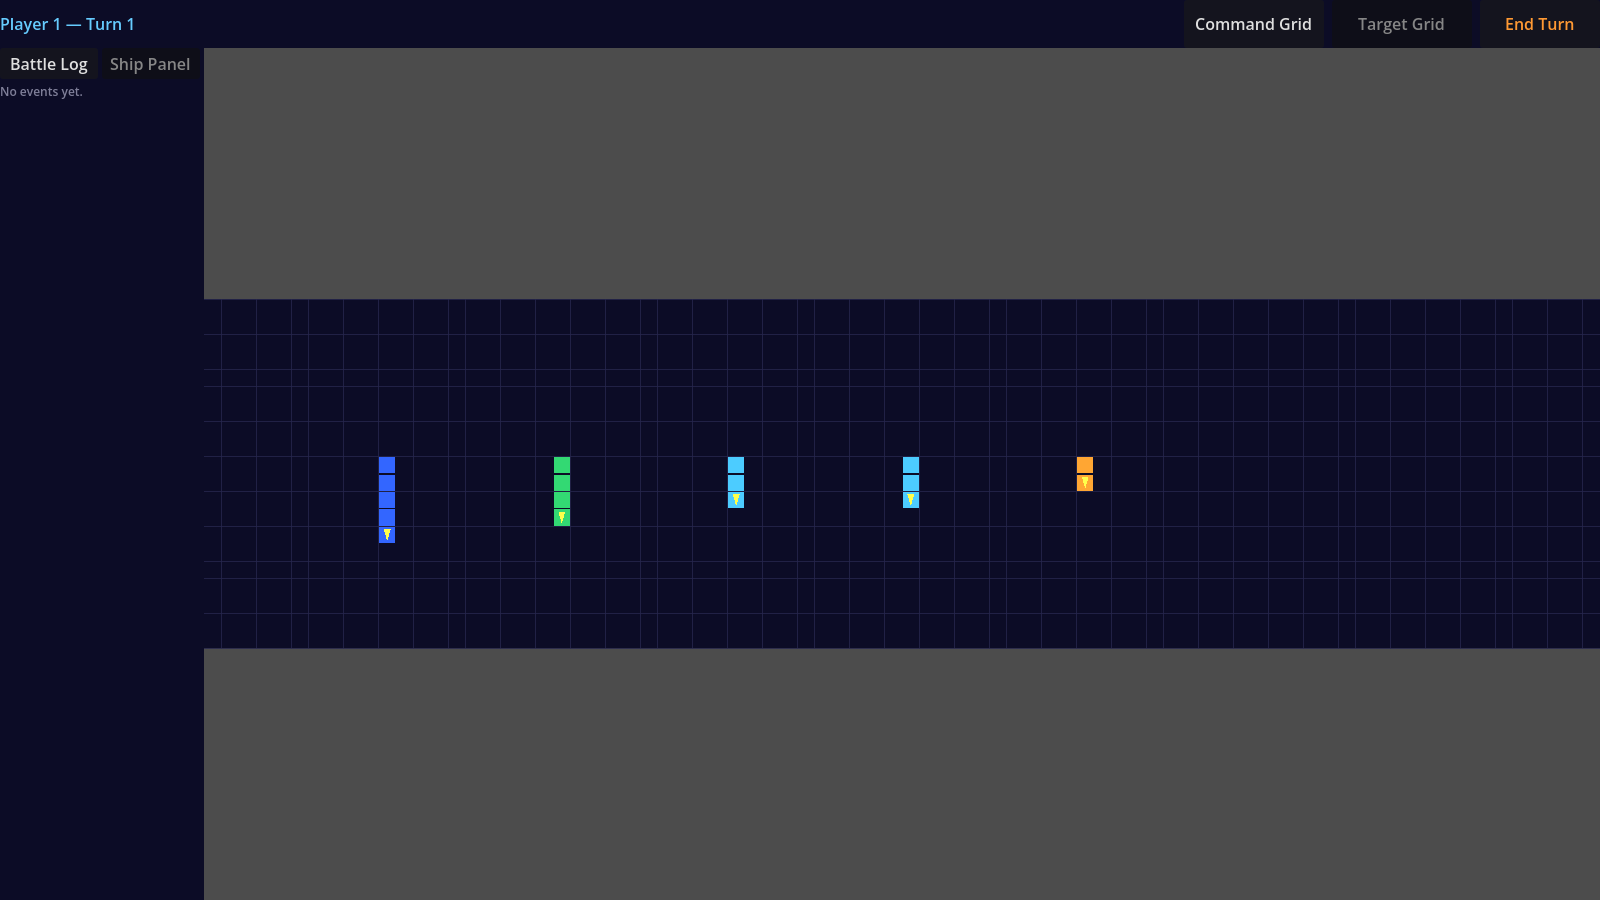
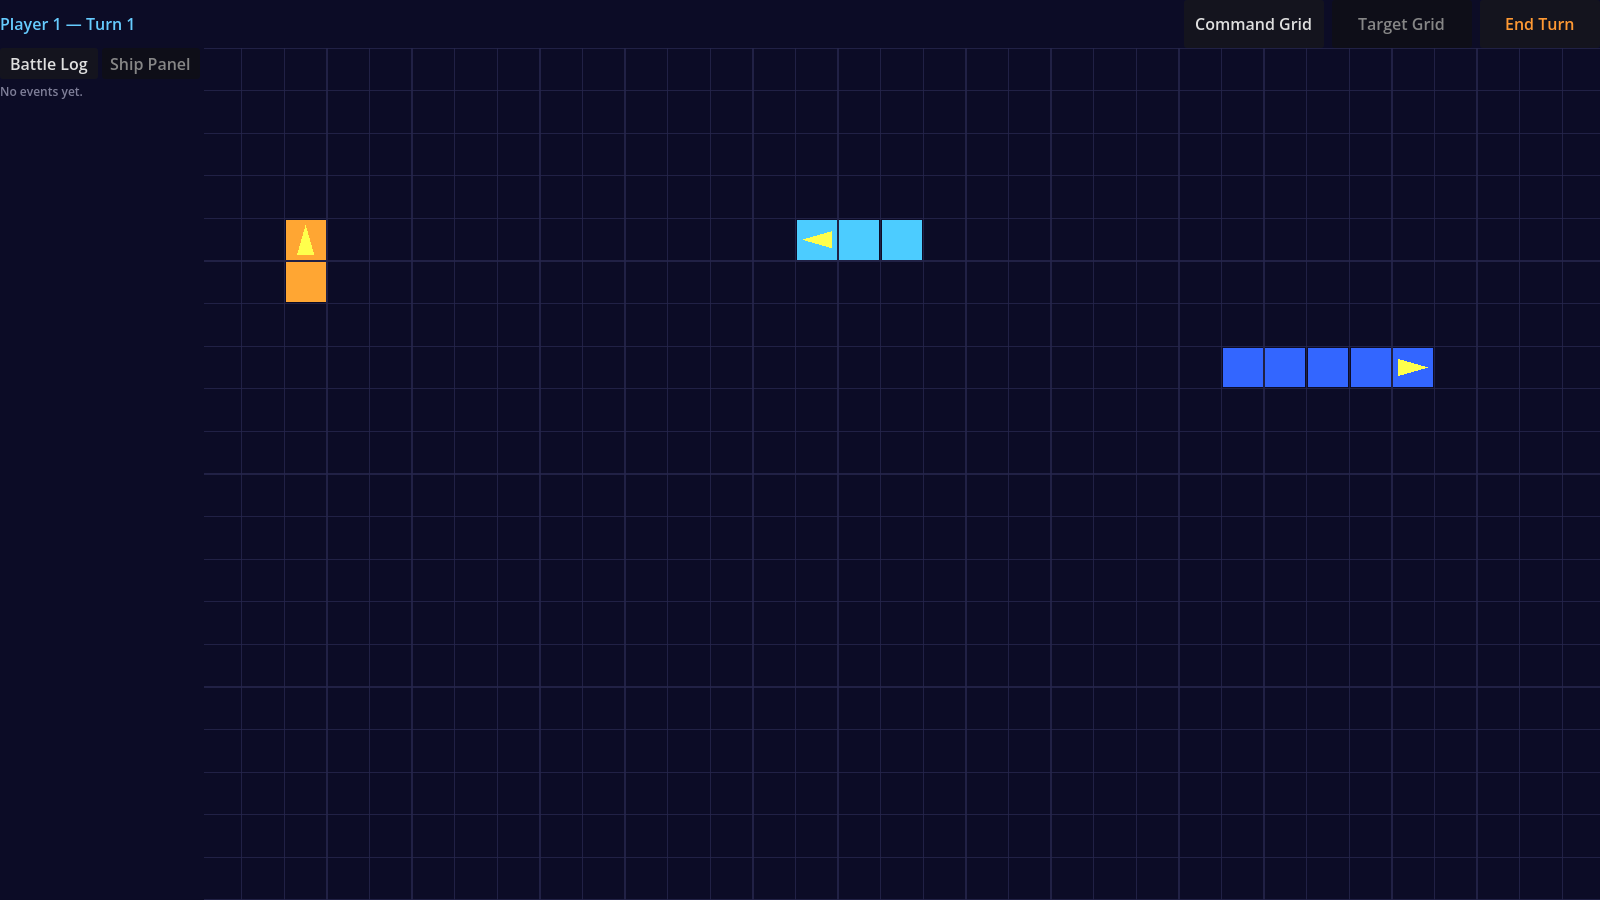
Complete step 12: HTML5 export, itch.io deploy, and Devpost submission

diff --git a/docs/devpost-submission.md b/docs/devpost-submission.md
@@ -1,0 +1,266 @@
+# Devpost Submission — Battlestations: Nebula
+
+Pasteable source for the Devpost submission form, organized by form page.
+
+- **Page 1: Project overview** — name, pitch, images, links, story.
+- **Page 2: Project details** — story (same), built with, try-it links, gallery, video.
+- **Page 3: Additional info** — Learning Hackathon feedback form.
+
+Fields you should personalize before pasting are tagged **[YOUR CALL]**.
+
+---
+
+# Project name
+
+```
+Battlestations: Nebula
+```
+
+# Elevator pitch
+
+```
+Hot-seat space combat tribute to my dad's 1980s Turbo Pascal game. Hide five ships in the nebula, fire probes to pull enemies out of fog, then shoot lasers and missiles before your intel goes stale.
+```
+
+198 characters, within Devpost's 200 limit.
+
+# Tagline (itch.io reference — not a Devpost field)
+
+```
+Hunt blind. Probe twice. Fire once.
+```
+
+---
+
+# Page 2 — Project details
+
+## Project story
+
+Paste the entire markdown block below into the Project Story field. Devpost's markdown editor supports H2, bullets, code spans, and bold — everything below renders correctly.
+
+```markdown
+## Inspiration
+
+Forty-odd years ago, my dad wrote a hidden-fleet space combat game in Turbo Pascal on hardware that now props up somebody's garage table. Two players, one floppy disk, a green CRT, and enough quiet tension to remember decades after the floppy rotted. This hackathon gave me a reason to exhume it. Same bones, new century, new nebula.
+
+## What it does
+
+Battlestations: Nebula is a turn-based, hot-seat space combat game for two players sharing one browser. You each hide a fleet of five ships on an 80-by-20 grid, then take turns poking the dark with probes and firing lasers and missiles at coordinates you hope are still accurate.
+
+- Five fixed ships per side: a Battleship, a Probe Ship, two Destroyers, and a Cruiser.
+- One of four actions per ship per turn: Probe, Shoot Laser, Launch Missile, or Move.
+- Energy allocation sliders per ship split your reactor between shield regen and laser power. Shields fill first when energy is tight.
+- Probes illuminate a 4-by-4 box (6-by-6 from a Probe Ship) of the nebula and reveal any enemy ships inside. The lights go out after two of your turns. What stays is a ghost marker.
+- Hidden-information integrity lives or dies on the handoff screen, which reports hit counts only. No ship names, no positions, no damage numbers.
+
+## How I built it
+
+One hundred percent spec-driven, start to finish. The workflow ran scope → PRD → spec → checklist → build → iterate, all captured in committed docs:
+
+- `docs/scope.md` sets what's in, what's out, and why.
+- `docs/prd.md` locks product behavior, screen flow, and combat math.
+- `docs/spec.md` defines technical architecture, data models, and file layout.
+- `docs/checklist.md` is twelve atomic build items, each referencing the spec section it implements, with explicit acceptance criteria. Two iterations layered on top for audio and submission polish.
+- `process-notes.md` captured decisions, pushback, and trade-offs live through every phase.
+
+Stack is Godot 4.6.2 with GDScript, statically typed throughout. HTML5 export runs in-browser via itch.io with no download. Each grid uses a SubViewport + Camera2D for native zoom and pan, and fog-of-war is a sparse Dictionary keyed on `Vector2i` to keep lookup O(1) across the 1,600-cell board.
+
+## Challenges I ran into
+
+- **Ghost-ship offset during fleet placement.** The placement scene's ghost ship tracked cursor motion wrong through four fix rounds. Root cause was hand-rolled container-to-viewport math that ignored Godot's internal SubViewportContainer transforms. The fix was replacing the math with `get_local_mouse_position()` on the renderer node. The engine already knew the answer. I was asking the wrong question.
+- **Probe fade state machine.** Probe intel degrades over your subsequent turns and has to survive overlap, ship movement, and damage updates. Getting the sparse Dictionary to converge on correct state took three fixes: probe records not updating when a ship moved into or out of a probe, shield/armor values going stale after a hit, and overlap not resetting prior ghost markers cleanly.
+- **Move cost counted rotation as displacement.** Rotating a ship shifted its origin cell, and the cost calculator treated that shift as movement. Fixed by anchoring cost to pivot points instead of origin.
+- **Audio that sounds like space, not like a fan project.** First pass synthesized sounds with numpy. They sounded fake. Scrapped and pivoted to Kenney CC0 packs with ffmpeg fade-ins to smooth the onset. Better audio in an hour than numpy produced in four.
+
+## Accomplishments I'm proud of
+
+- The probe fade mechanic is load-bearing. Stale intel costs you. The ghost marker is worse than no intel because it feels like information.
+- The nebula is a surface you read, not a backdrop you ignore. Probes illuminate the painted cloud instead of replacing it. Zoom out and the whole 80-by-20 battlefield reads like weather.
+- Hidden-information integrity stayed honest end to end. You never see the opponent's grid. The handoff screen reports hit counts and nothing else.
+- Every document in the project supports the next one. The PRD's combat math became the spec's `resolve_laser` became the checklist's item 9 became working code. No phase was busywork.
+
+## What I learned
+
+- **Front-loading specs is the payoff.** I came in with GitHub epic/story experience and thought I already specified work deeply. This process made the gap obvious. The spec's data model section survived untouched through the whole build because it got argued over before a line of code was written.
+- **Voice locked early prevents rewrites later.** The Welcome tutorial page voice got approved before any marketing copy or itch.io description was drafted. Everything downstream cribbed from that anchor and stayed consistent.
+- **The checklist is a living document, not a plan.** When items broke or surfaced gaps, the right move was to revise the checklist, not push through. Mid-iteration additions (the color scheme doc, the Cowork handoff brief) slotted in cleanly because the structure was built to adapt.
+
+## What's next
+
+`docs/backlog.md` holds the post-hackathon pile. Ranked roughly by impact: a randomize-fleet button for quick games, miss indicators on the Target Grid so you can see where you've already fired, instant-win on the killing shot, and a historical-probe overlay showing cells you've previously scanned. Bigger structural ideas (non-linear ship shapes, critical hit zones, partial probe reveal) each want their own design pass before any code lands.
+
+## A note on the process
+
+The plugin workflow was the best part of this hackathon for me. I'm going to keep using it to iterate on Battlestations: Nebula after submission. The backlog is long and the process makes planning each next pass easier than the last one. Thanks for running this.
+```
+
+## Built with
+
+Add these one tag at a time. Devpost autocompletes known tags — pick exact matches when offered. If any tag is rejected as unknown, drop it and move on.
+
+```
+godot
+gdscript
+html5
+webassembly
+itch.io
+butler
+github
+git
+claude
+python
+ffmpeg
+grammarly
+```
+
+Optional adds if you want to lean harder into the AI-workflow angle (fair for a Learning Hackathon on Spec Driven Development):
+
+```
+claude-cowork
+hackathon-in-a-plugin
+kenney-assets
+spec-driven-development
+```
+
+Skip unless you want them: `numpy` (only in scrapped audio-synth tooling), `markdown` (everything uses it, low signal).
+
+## "Try it out" links
+
+Add both. Devpost labels them however you type them.
+
+| Label | URL |
+|---|---|
+| Play the game | `https://zabuuq.itch.io/battlestations-nebula` |
+| Source code | `https://github.com/zabuuq/Devpost-Hackathon` |
+
+## Image gallery
+
+**Devpost minimum is 5 images.** All listed files are well under Devpost's 2 MB per-image limit. Upload in this order — first image becomes the thumbnail.
+
+From `assets/screenshots/`:
+
+1. `11_probe_closeup.png` — **hero shot**, probe illumination. Thumbnail.
+2. `04_fleet_placement_full.png` — fleet placement with all five ships placed.
+3. `07_probe_revealed.png` — enemy ship revealed through an active probe.
+4. `08_ship_panel_sliders.png` — ship panel with energy sliders.
+5. `12_battle_log_detail.png` — battle log entries at three detail tiers.
+6. `13_command_overview.png` — zoomed-out command grid overview.
+
+Optional 7th–8th if Devpost lets you keep going:
+
+7. `14_destroyed_ships.png` — wreckage markers after a kill.
+8. `06_probe_aiming.png` — probe targeting reticule.
+
+**Skip:** `09_move_preview.png` is only 2.8 KB on disk — probably a degenerate capture. Worth re-running `godot --path . -- --screenshot` before using it, or just leaving it out.
+
+## Video demo link
+
+**[YOUR CALL]** — none exists. Options:
+
+- **Leave blank.** Devpost doesn't require video for this hackathon based on the form layout.
+- **Record one.** A 60-second walkthrough (splash → placement → probe → fire → win) in OBS or Loom would strengthen the submission, but not a blocker.
+
+---
+
+# Page 3 — Additional info (Learning Hackathon feedback)
+
+These are the hackathon organizers' feedback fields. Answers drafted from `process-notes.md`. **Edit anything that doesn't match your actual take** — these are my reconstruction, not your voice.
+
+## Upload a file
+
+**Skip.** The submission is web-hosted via itch.io. No standalone executable to attach.
+
+## How far through the process did you get?
+
+**[YOUR CALL]** — pick the fullest option in the dropdown. Likely something like "Complete build and iteration" or "Shipped a playable submission." You went all the way through scope → PRD → spec → checklist → build → iterate × 2 → submit.
+
+## How many hours did the full experience take?
+
+**[YOUR CALL]** — I don't have ground truth on this. Rough estimate from scope of work: 40–60 hours across about three weeks (early April through April 23).
+
+```
+Approximately 50 hours across three weeks, spread across planning, build, two iterations, and submission prep.
+```
+
+Edit the number to match your actual time.
+
+## Upload your files to the storage software and share them here (eg. Google Drive)
+
+```
+https://github.com/zabuuq/Devpost-Hackathon
+```
+
+The full project source, docs, and process notes are all in the GitHub repo. No separate Drive upload needed.
+
+## How would you rate the overall experience?
+
+**[YOUR CALL]** — pick the rating in the dropdown that matches your honest take. Based on tone of the process notes, you sound positive. Don't inflate to please the organizers; they want a real signal.
+
+## Which parts of the process were most valuable to you?
+
+```
+The spec phase did the heaviest lifting. Specifically the per-cell fog-of-war architecture discussion: I started with a per-probe-area model, the agent pushed back, and working through a concrete overlap scenario surfaced that a sparse Dictionary keyed on grid coordinates was the correct model. That one decision survived every build item that touched fog logic, with zero rework. The wrong choice would have cost compounding interest at move, probe, and hit time.
+
+Voice-locking before writing marketing copy was the second highest-value move. The iterate round for submission readiness asked me to approve the first tutorial page's voice before anything else got drafted. Every downstream piece — README, itch.io description, Devpost story, in-game pages 2 through 9 — cribbed from that anchor. Zero rewrites for tone consistency.
+
+Third: the deepening rounds at the end of each planning command. The prompt "want another round of questions before we generate the document?" made me sharpen things I would have shipped thin otherwise. Rotation pivot points, slider priority rules, probe overlap behavior — all surfaced during deepening rounds, none would have been in the first-pass doc.
+```
+
+## Where did you get stuck or what felt like a waste of time?
+
+```
+Biggest stuck point was a coordinate-math bug in fleet placement. My ghost ship tracked the cursor with an offset I could not isolate. I went through four rounds of fixes using progressively more elaborate manual transforms between SubViewportContainer, Viewport, and Camera2D spaces. The fix was one line using Godot's built-in get_local_mouse_position(). The engine already solved it. I was asking the wrong question for a day.
+
+Second: audio synthesis from scratch. I spent an iteration running numpy-generated waveforms through ffmpeg. The results sounded fake in a way I could not talk myself out of. Pivoted to Kenney CC0 packs and had usable audio in under an hour. Retrospectively, curated assets first, custom synthesis post-hackathon.
+
+Nothing in the SDD workflow itself felt like waste. The closest was the first few interview questions during /scope — the answers were things I already had ready, so it felt slow. The deepening rounds more than paid that back by surfacing decisions I had not actually made yet.
+```
+
+## Did this experience change how you approach building with a coding agent?
+
+```
+Yes. Before this, my process was epic-and-story in GitHub, with AI-assisted ticket breakdown and iterative code. Reasonably structured, but the specs were thin. This workflow made me write down decisions I would have resolved ad hoc during the build: combat damage formulas, slider priority rules, probe expiration, rotation pivots. Each one, written once, held across every downstream artifact.
+
+Concrete change I am taking forward: front-load the spec pass. Old habit was to start ticketing after a one-paragraph scope. New habit is to finish a spec.md before opening the checklist.
+```
+
+## How likely are you to use this kind of workflow in your day to day work?
+
+**[YOUR CALL]** — pick the likelihood that matches. Free-text follow-up below:
+
+```
+I am already planning to use the plugin for the post-submission iteration on this game — the backlog is long and the structure pays for itself across iterations. For day-job work, the scope/PRD/spec chain fits cleanly into the existing GitHub epic workflow: scope.md feeds an epic, PRD sections feed stories, spec.md feeds implementation tickets. The structure does not fight existing tooling, it sharpens it.
+```
+
+## Would you recommend this to a colleague?
+
+**[YOUR CALL]** — check the box if yes.
+
+## What would you change about this experience?
+
+```
+Two suggestions.
+
+First: document the Cowork handoff pattern. I used Claude Cowork for itch.io browser automation in parallel with the build agent (theme update, description upload, screenshot gallery), which worked well, but the workflow was not part of the plugin. I invented the pattern on the fly — brief files under docs/claude-cowork/, explicit PAUSE comments in the checklist, and a delivered-note handoff from Cowork back to the build agent. That pattern could be a first-class template in the plugin for submissions that involve external dashboard work.
+
+Second: guided-with-gates as a first-class build mode. Autonomous mode worked for most of the build, but the final submission item needed human gates before every external action (butler push, public flip, Devpost submit). I annotated the checklist manually with a HOLD marker and a guided-with-gates note, and the build agent respected it. That pattern could be supported by default for items that touch live services rather than requiring the learner to invent the scaffolding.
+
+Otherwise, strong workflow. Plan is to keep using it.
+```
+
+---
+
+# Final submit checklist
+
+Before you click **Submit**:
+
+- [ ] Page 1 done: name, pitch, thumbnail, links
+- [ ] Page 2 done: story pasted and rendered correctly, built-with tags added, try-it links added, ≥5 screenshots uploaded in order, video left blank or recorded
+- [ ] Page 3 done: all feedback fields filled, your personal rating and hours picked
+- [ ] Preview opened in a new tab — markdown rendered clean, screenshots in right order, links open to the right URLs
+- [ ] itch.io page is **public** (not draft)
+- [ ] GitHub repo is **public** and pushed through `e3f071b`
+
+When all green, submit.
+
+After submit: paste the Devpost submission URL back in chat (pattern is usually `https://devpost.com/software/battlestations-nebula`). I'll do a Playwright read-only pass to verify the public page renders correctly, then close out Gate 7.

diff --git a/process-notes.md b/process-notes.md
@@ -126,6 +126,35 @@ Jason made nearly all architectural decisions when given options. Notable moment
 
 **Issues:** None. No verification yet (checkpoint 3 is after item 9).
 
+### Step 12: HTML5 export, itch.io deploy, and Devpost submission
+
+**Mode:** Guided-with-gates, not autonomous. Item 12's HOLD LIFTED marker on 2026-04-22 explicitly required explicit user confirmation before each external action. Seven gates, all passed:
+
+1. HTML5 export to `export/web/` via `godot --headless --path . --export-release "Web"`.
+2. Local smoke test on `python -m http.server 8000`. Splash → menu → How to Play → Start verified by Jason.
+3. Butler push to `zabuuq/battlestations-nebula:html5`. New build #1632255 (version 3) replaces the April 11 I2-1 build #1608182. 99.14% patch savings — the 37 MB wasm blob was unchanged.
+4. Live-build verification at the secret URL before public flip.
+5. `git push origin main` — pushed e3f071b (I2-11) so the public repo matched the live build.
+6. itch.io page flipped Draft → Public via dashboard.
+7. Devpost submission.
+
+**What was drafted for submission:**
+- `docs/devpost-submission.md` — pasteable source mapping every Devpost form field. Three pages: overview, project details (name, tagline, elevator pitch, project story, built-with tags, try-it links, image gallery, video), and Learning Hackathon feedback (hours, rating, most valuable parts, stuck points, approach change, likelihood of reuse, what to change). Project story rewritten in the Gallows Deadpan voice consistent with the itch.io description and tutorial pages. User-edited tags after generation.
+- Elevator pitch (198 of 200 chars): "Hot-seat space combat tribute to my dad's 1980s Turbo Pascal game. Hide five ships in the nebula, fire probes to pull enemies out of fog, then shoot lasers and missiles before your intel goes stale."
+
+**Screenshot refinements done during item 12:**
+- Shot 12 converted from a full-viewport capture to a 200×540 LeftPanel crop matching shot 08a's dimensions. Now functions as a matched closeup pair with 08a in the Devpost gallery.
+- Shot 13 rewritten to use a seeded-random P1 fleet (SHOT_13_SEED=1337). Camera fills the viewport vertically via `_gameplay_fill_view` (no letterbox gray bands) and pans to the median ship x so the cluster lands in frame. At least three ships visible; the seed constant is the single knob for rerolling.
+
+**Gaps noted:**
+- `docs/claude-cowork/itch-page-setup-delivered.txt` was never written during I2-11 (the requirement wasn't communicated to Cowork). Jason confirmed the theme + description upload succeeded in practice and authorized trusting the I2-11 checkbox.
+
+**Memory written during item 12:**
+- `project_itch_devlog_on_updates.md` — reminder to draft a Gallows-Deadpan devlog note after every future butler push, for Jason to post manually via the itch.io Devlog editor.
+
+**Backlog additions during item 12:**
+- Two-line title treatment on splash / main menu / victory ("Battlestations:" on line 1, "NEBULA" on line 2, fully caps, larger font, stretched to match line 1's pixel width).
+
 ## /checklist
 
 ### Sequencing decisions and rationale

diff --git a/docs/checklist.md b/docs/checklist.md
@@ -186,7 +186,7 @@
 
 <!-- HOLD LIFTED 2026-04-22 — all iteration work is complete (I2-9, I2-10, I2-11 done; Cowork confirmed theme + description live on the itch.io draft). User has signed off on proceeding with item 12. This item drives external side effects (butler push, itch.io public flip, Devpost submit), so /build should operate in guided-with-gates mode: pause for explicit user confirmation before each external action, and surface any irreversible step clearly. -->
 
-- [ ] **12. HTML5 export, itch.io deploy, and Devpost submission**
+- [x] **12. HTML5 export, itch.io deploy, and Devpost submission**
   Spec ref: `spec.md > Runtime & Deployment`, `prd.md > 12. Success Criteria`
   What to build: **Export**: in Godot Editor → Project → Export → HTML5 preset. Disable threading. Output to `export/web/`. Run the exported game in a local browser and confirm it plays end-to-end. **Deploy to itch.io**: run `butler push ./export/web <username>/<game-slug>:html5`. On itch.io, confirm the game page is set to HTML (Kind of Project) and the channel is marked "Playable in browser." **GitHub repo**: confirm the repo is public and all code is pushed. **Devpost submission**: write project name and tagline (nebula-themed tribute angle). Draft the project story — the human hook (tribute to dad's Pascal game), the probe fade mechanic as the tactical "wow," the visual artistry (nebula background + probe illumination) as the aesthetic "wow." Add built-with tags: Godot 4, GDScript, HTML5, itch.io. Add screenshots: fleet placement grid, gameplay with active probe illumination over nebula, ship panel with energy sliders, victory screen. Link GitHub repo and itch.io live demo. Submit.
   Iteration 2 notes: `docs/pitch.md` is the source of truth for the Devpost project name, tagline, project story, and built-with framing — crib from it directly rather than rewriting. `docs/itch-io-description.md` was rewritten in the How to Play voice during I2-9 and is live on the itch.io page after I2-11 (Cowork applied the theme using `docs/color-scheme.md` and pasted the rewritten description). The initial HTML5 export and itch.io deploy already happened in I2-1; the theme + description upload was re-done cleanly in I2-11 (I2-6 produced the brief only; execution did not happen until I2-11). This item's deploy step is a **final redeploy** of the latest build so the live page reflects the finished tutorial before submission. Flip the itch.io page from draft to public as part of this step.

diff --git a/docs/backlog.md b/docs/backlog.md
@@ -77,6 +77,7 @@ Future features and ideas captured during development. Not committed to any time
 | Bug: first-turn energy regen ignores cap | On the first round, the +50 energy regen applies on top of the ship's starting max energy, so each ship ends up 50 over its stated max. Regen should clamp to the ship's `max_energy`. Likely in `TurnManager.turn_start()` energy regen step. |
 | Bug: destroyed ships render above live ships | Wreckage markers for destroyed ships currently draw on top of adjacent living ships on the Command Grid. Destroyed ships should render on a lower z-layer so living ships always draw above wreckage. Fix in `scripts/ui/grid_renderer.gd` draw order. |
 | Bug: empty-state label persists when ship selected | `scripts/ui/ship_panel.gd` toggles `_container.visible` in `show_ship` / `clear_ship` but never hides the sibling `ShipPanelEmpty` label ("Click a ship on the Command Grid to select it.") defined in `scenes/gameplay.tscn`. When a ship is selected, the empty-state prompt and the populated panel render at the same time. Invisible on the full-screen gameplay view because the label blends into the sidebar, but obvious on a tight crop of the panel. Fix: cache the sibling reference in `_build_ui()` and toggle its visibility alongside `_container` in `show_ship` / `show_enemy_ship` / `clear_ship`. Temporary workaround lives in `_shot_08a_ship_panel_tight()` in `scripts/debug/screenshot_runner.gd`; remove it once the real fix lands. |
+| Two-line title treatment on splash and main menu | Restyle the game title from a single line to a two-line block: `Battlestations:` on the first line, `NEBULA` fully capitalized on the second line at a larger font size, horizontally stretched so `NEBULA` matches the pixel width of `Battlestations:` above it exactly. Applies to `scenes/splash.tscn` primarily; check `scenes/main_menu.tscn` and `scenes/victory.tscn` for any other title renderings that should stay consistent. Width matching on a stretched label can be done with `Label.set("theme_override_constants/outline_size", ...)` plus character spacing, or by placing `NEBULA` inside a `Control` with `size_flags_horizontal = SIZE_EXPAND_FILL` and scaling the label's `custom_minimum_size` to hit the target width. Re-run `scripts/debug/screenshot_runner.gd` after to regenerate `01_welcome.png` and `02_main_menu.png` with the new title. |
 
 ---
 
